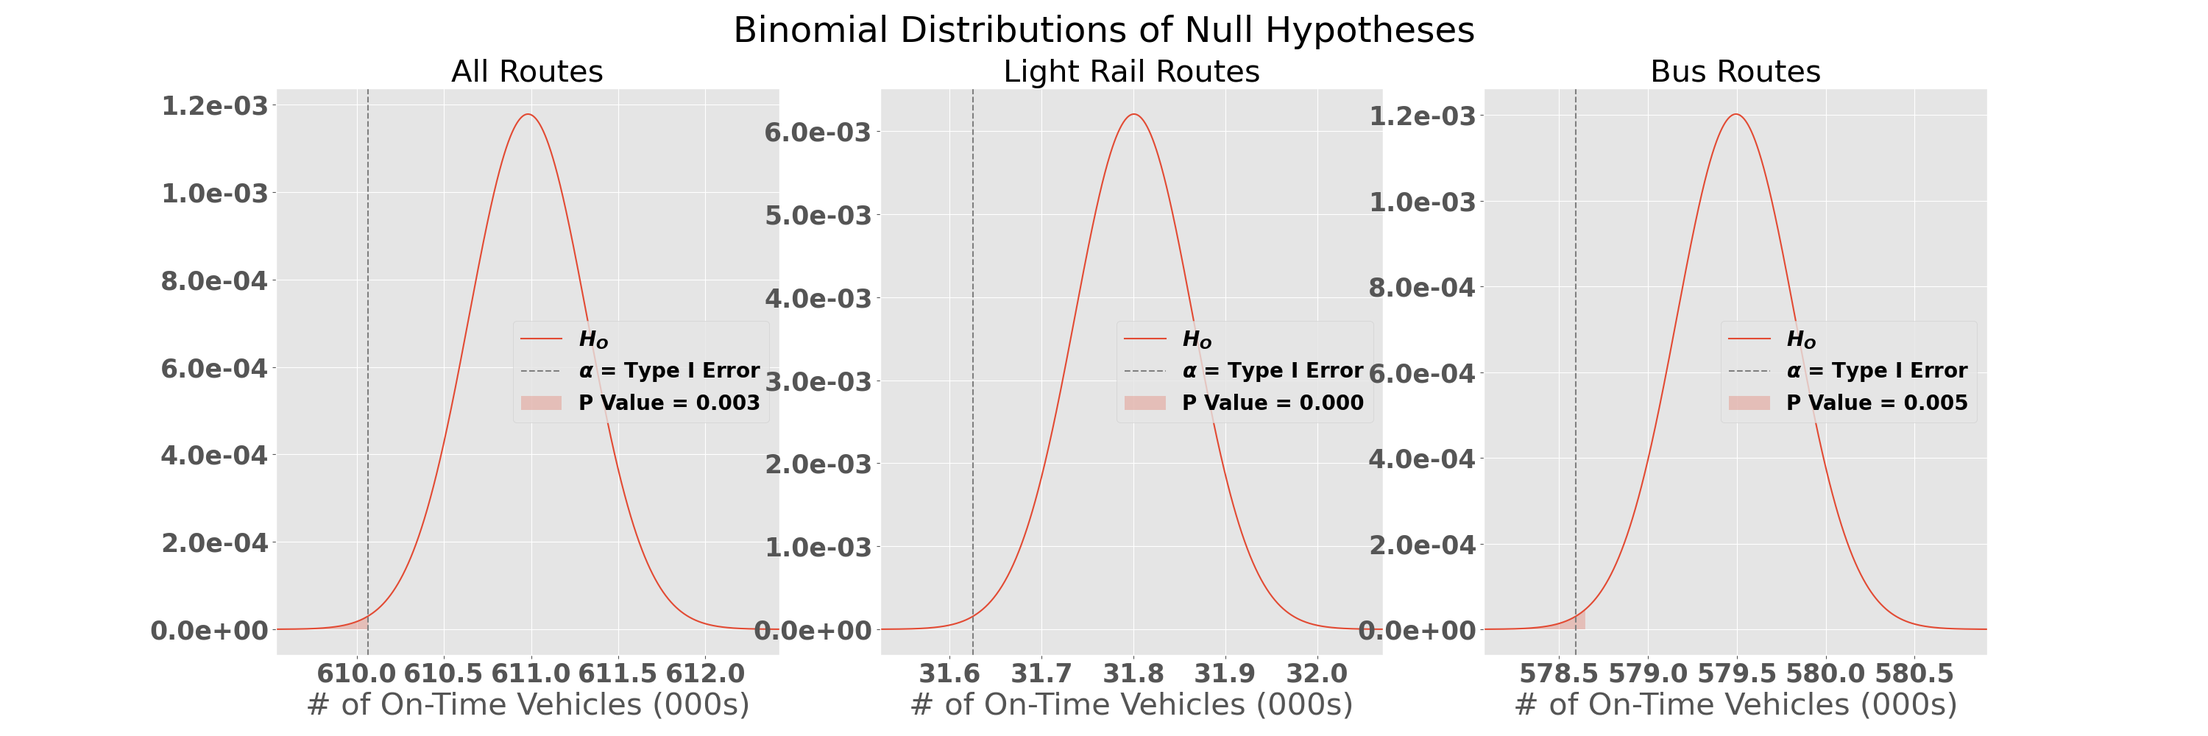
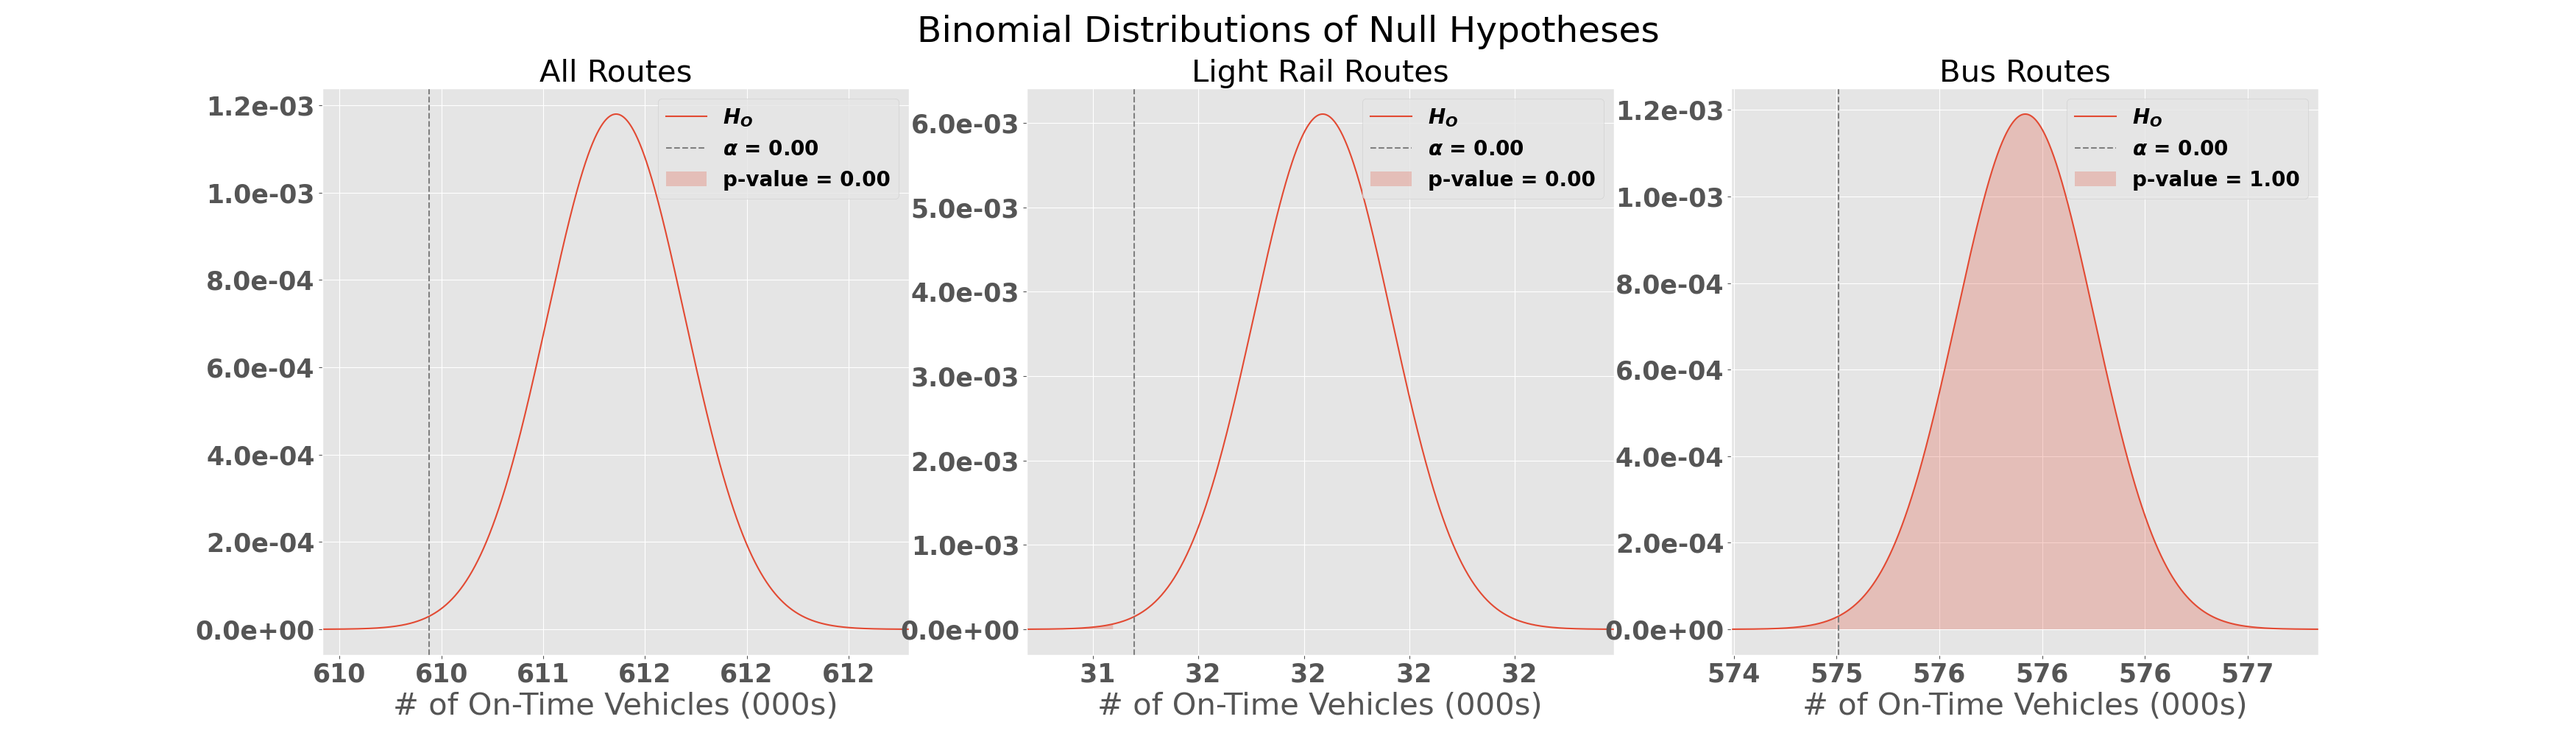
Nightly commit

diff --git a/src/analyze_rtd_data.py b/src/analyze_rtd_data.py
@@ -27,7 +27,7 @@ class RTD_analyze(object):
         elif ~(self.route_type == 'All') & (self.route_label == 'All'):
             self.data = rtd_data.df[rtd_data.df.route_type == self.route_type]
         else:
-            self.data = rtd_data.df[rtd_data.df.route_label == self.route_label]
+            self.data = rtd_data.df[rtd_data.df.route_short_name == self.route_label]
 
     def calculate_ontime_departure(self):
         '''
@@ -56,9 +56,12 @@ class RTD_analyze(object):
     def plot_null_hypothesis(self, ax, alpha_value, null_percent):
         def thousands(x, pos):
             'The two args are the value and tick position'
-            return '%3.1f' % (x/1000)
+            return '%3.0f' % (x/1000)
 
-        graph_fontsize = 30
+        if (self.route_type == 'All') & ~(self.route_label == 'All'): 
+            graph_fontsize = 20
+        else:
+            graph_fontsize = 30
 
         null_dist = stats.binom(n=self.total_stops, p=null_percent)
         x = np.linspace(0, self.total_stops, self.total_stops+1)
@@ -71,22 +74,28 @@ class RTD_analyze(object):
         ax.axvline(null_dist.ppf(alpha_value)
                   ,linestyle='--'
                   ,color='grey'
-                  ,label='$\\alpha$ = Type I Error')
+                  ,label=f"$\\alpha$ = {alpha_value:.2f}")
         ax.fill_between(x
                         ,null_dist.pmf(x)
                         ,where= x <= observed_data
                         ,alpha=0.25
-                        ,label=f"P Value = {null_dist.cdf(observed_data):.3f}")
-        ax.legend(loc='best', fontsize=graph_fontsize-10)
+                        ,label=f"p-value = {null_dist.cdf(observed_data):.2f}")
+        ax.legend(loc='upper right', fontsize=graph_fontsize-10)
         ax.set_xlabel('# of On-Time Vehicles (000s)', fontsize=graph_fontsize)
-        ax.set_title(f"{self.route_type.replace('_', ' ').title()} Routes", fontsize=graph_fontsize)
+        if (self.route_type == 'All') & ~(self.route_label == 'All'): 
+            ax.set_title(f"{self.route_label} Route", fontsize=graph_fontsize)
+        else:
+            ax.set_title(f"{self.route_type.replace('_', ' ').title()} Routes", fontsize=graph_fontsize)
 
     def plot_alt_hypothesis(self, ax, alpha_value, null_percent):
         def thousands(x, pos):
             'The two args are the value and tick position'
-            return '%3.1f' % (x/1000)
-
-        graph_fontsize = 30
+            return '%3.0f' % (x/1000)
+        
+        if (self.route_type == 'All') & ~(self.route_label == 'All'): 
+            graph_fontsize = 25
+        else:
+            graph_fontsize = 30
 
         null_dist = stats.binom(n=self.total_stops, p=null_percent)
         alt_dist = stats.binom(n=self.total_stops, p=self.ontime_departure_rate)
@@ -102,7 +111,7 @@ class RTD_analyze(object):
         ax.fill_between(x, null_dist.pmf(x)
                        ,where= (x <= null_dist.ppf(alpha_value))
                        ,alpha=0.25
-                       ,label='$\\alpha$ = Type I Error')
+                       ,label=f"$\\alpha$ = Type I Error")
         ax.fill_between(x, alt_dist.pmf(x)
                        ,where= (x >= null_dist.ppf(alpha_value))
                        ,alpha=0.25
@@ -112,10 +121,13 @@ class RTD_analyze(object):
                        ,alpha=0.25
                        ,color='Green'
                        ,label='Power')
-        ax.legend(loc='best', fontsize=graph_fontsize-10)
+        ax.legend(loc='upper right', fontsize=graph_fontsize-10)
         ax.set_xlabel(f"# of On-Time Vehicles (000s)", fontsize=graph_fontsize)
-        ax.set_title(f"{self.route_type.replace('_', ' ').title()} Routes", fontsize=graph_fontsize)
-
+        if (self.route_type == 'All') & ~(self.route_label == 'All'): 
+            ax.set_title(f"{self.route_label} Route", fontsize=graph_fontsize)
+        else:
+            ax.set_title(f"{self.route_type.replace('_', ' ').title()} Routes", fontsize=graph_fontsize)
+            
 if __name__ == '__main__':
 
     rtd_data = clean_rtd_data.RTD_df(bucket_name='rtd-on-time-departure', file_name='rtd_data.csv')
@@ -139,13 +151,14 @@ if __name__ == '__main__':
     plt.savefig('images/departure_time_histogram.png')
 
     # Original Null Hypothesis
-    set_figsize = (30,10)
+    set_figsize = (35,10)
     set_fontsize = 35
     plt.rc('xtick',labelsize=25)
     plt.rc('ytick',labelsize=25)
     alpha_value = 0.01/3
     
     fig, axs = plt.subplots(1,3,figsize=set_figsize)
+    fig.tight_layout()
 
     all_routes.plot_null_hypothesis(ax=axs[0], alpha_value=alpha_value, null_percent=0.86)
     light_rail.plot_null_hypothesis(ax=axs[1], alpha_value=alpha_value, null_percent=0.90)
@@ -155,6 +168,7 @@ if __name__ == '__main__':
     
     # Original Alt Hypothesis
     fig, axs = plt.subplots(1,3,figsize=set_figsize)
+    fig.tight_layout()
     
     all_routes.plot_alt_hypothesis(ax=axs[0], alpha_value=alpha_value, null_percent=0.86)
     light_rail.plot_alt_hypothesis(ax=axs[1], alpha_value=alpha_value, null_percent=0.90)
@@ -163,11 +177,12 @@ if __name__ == '__main__':
     plt.savefig(f"images/original_alt_hypothesis.png")
 
     # Modified Null Hypothesis
-    all_routes_null_p = 0.8125
-    light_rail_null_p = 0.87
-    bus_null_p = 0.81
+    all_routes_null_p = 0.813
+    light_rail_null_p = 0.865
+    bus_null_p = 0.805
 
     fig, axs = plt.subplots(1,3,figsize=set_figsize)
+    fig.tight_layout()
     
     all_routes.plot_null_hypothesis(ax=axs[0], alpha_value=alpha_value, null_percent=all_routes_null_p)
     light_rail.plot_null_hypothesis(ax=axs[1], alpha_value=alpha_value, null_percent=light_rail_null_p)
@@ -177,9 +192,43 @@ if __name__ == '__main__':
 
     # Modified Alt Hypothesis
     fig, axs = plt.subplots(1,3,figsize=set_figsize)
+    fig.tight_layout()
     
     all_routes.plot_alt_hypothesis(ax=axs[0], alpha_value=alpha_value, null_percent=all_routes_null_p)
     light_rail.plot_alt_hypothesis(ax=axs[1], alpha_value=alpha_value, null_percent=light_rail_null_p)
     bus.plot_alt_hypothesis(ax=axs[2], alpha_value=alpha_value, null_percent=bus_null_p)
     fig.suptitle(f"Binomial Distributions of Null and Alternate Hypotheses", fontsize=set_fontsize)
     plt.savefig(f"images/modified_alt_hypothesis.png")
+
+    # Top 10 Routes
+    top_10_routes = list(all_routes.data.groupby('route_short_name').size().sort_values(ascending=False)[0:10].index)
+    alpha_value = 0.01/10
+    set_figsize = (15,75)
+    set_fontsize = 25
+    plt.rc('xtick',labelsize=15)
+    plt.rc('ytick',labelsize=15)
+   
+    fig, axs = plt.subplots(10,1, figsize=set_figsize)
+    fig.tight_layout()
+
+    for idx, route in enumerate(top_10_routes):
+        route_data = RTD_analyze(rtd_data, route_label=route)
+        route_data.calculate_ontime_departure()
+        route_data.plot_null_hypothesis(ax=axs[idx], alpha_value=alpha_value, null_percent=0.86)
+    
+    fig.suptitle(f'Binomial Distributions of Null Hypotheses', fontsize=set_fontsize)
+    plt.savefig(f"images/top_10_routes_null_hypothesis.png")
+
+    fig, axs = plt.subplots(10,1, figsize=set_figsize)
+    fig.tight_layout()
+
+    for idx, route in enumerate(top_10_routes):
+        route_data = RTD_analyze(rtd_data, route_label=route)
+        route_data.calculate_ontime_departure()
+        route_data.plot_alt_hypothesis(ax=axs[idx], alpha_value=alpha_value, null_percent=0.86)
+    
+    fig.suptitle(f'Binomial Distributions of Null and Alternate Hypotheses', fontsize=set_fontsize)
+    plt.savefig(f"images/top_10_routes_alt_hypothesis.png")
+
+
+

diff --git a/README.md b/README.md
@@ -136,7 +136,7 @@ Once I had my data down to just rows where a vehicle was at or immediately arriv
 During the process of cleaning the data, I noticed that several days were missing entirely (from 2021-02-19 19:45 to 2021-02-22 07:55). This appears to have been caused by renaming my repository from **Capstone_1** to **rtd_on_time_departure**. The name change had several downstream impacts, most significantly on the crontab job I had running where the directory name was no longer found. While this is unfortunate, it will not severely impact my overall analysis.
 
 ## EDA
-
+---
 Now that I have my data in a workable state, I wanted to visualize the entire dataset to see the range of values I would be working with. 
 
 ### Vehicle Lat / Lngs
@@ -162,21 +162,26 @@ Next, I wanted to see what sort of range in departure_times I would be dealing w
 It looks like 99.5% of my data falls within (-20, 20) minutes so I zoomed in there to get a better idea of the distribution. There is definitely a normal distribution here with a slight left skew as vehicles are more often slightly late than slightly early. Overall though, this gives me a good idea of where my departure times will fall for the dataset.
 
 ### Null Hypotheses
-If we use the 2019Q3 goals (86% System, 90% Light Rail, 86% Bus) for our Null Hypothesis, we can see that COVID-19 and the RTD driver shortage of 2020 had significant impacts to the on-time departure rate. Since I am running 3 experiments:
+If we use the 2019Q3 goals (86% System, 90% Light Rail, 86% Bus) for our Null Hypothesis, we can see that COVID-19 and the RTD operator shortage of 2020 had significant impacts to the on-time departure rate. Since I am running 3 experiments:
 $$\large H_{0_{system}}: \text{On Time Service >= 86\%}\ \| \ \large H_{A_{system}}: \text{On Time Service < 86\%}$$ 
-$$\large H_{0_{\text{light rail}}}: \text{On Time Service >= 90\%}\ \ \| \ \large H_{A_{\text{light rail}}}: \text{On Time Service < 90\%}$$ 
+$$\large H_{0_{\text{light rail}}}: \text{On Time Service >= 90\%}\ \| \ \large H_{A_{\text{light rail}}}: \text{On Time Service < 90\%}$$ 
 $$\large H_{0_{\text{bus}}}: \text{On Time Service >= 86\%}\ \ \| \ \large H_{A_{\text{bus}}}: \text{On Time Service < 86\%}$$ 
-I need to correct for using my original stated $\large \alpha = 0.01$. Using the **Bonferroni correction**, I would instead use $\large \frac{0.01}{3}$ or $\large \alpha=0.003$. The p-value for each of our route types is below our $\large \alpha$, which means we can **reject the Null Hypothesis that RTD's on-time departure rate during the measured time period was 86% or greater**.
+I will need to correct for using my original stated $\large \alpha = 0.01$ by using the **Bonferroni correction**. I would instead use $\large \frac{0.01}{3}$ or $\large \alpha=0.003$. The p-value for each of our route types is below our $\large \alpha$, which means we can **reject the Null Hypothesis that RTD's on-time departure rate during the measured time period was 86% or greater**.
 
 ![Null Hypothesis](images/original_null_hypothesis.png)
 
 ### Alternate Hypothesis
-For each of our experiments, you can see that the alternate hypothesis distribution is well below the critical value ($\large \alpha \large$=0.01) which results in a very little chance of Type I or Type II Errors. 
+For each of our experiments, you can also see that the alternate hypothesis distribution is well below the critical value ($\large \alpha \large$=0.003) which results in a very little chance of Type I or Type II Errors. These graphs show us that there is indeed a difference between the stated on-time service goal of 86% (90% for Light Rail) and the observed on-time service from February 16th, 2020 - February 22nd, 2020. This of course makes sense because of what happened in 2020 with COVID-19 and the operator shortage.
 
 ![Alternate Hypothesis](images/original_alt_hypothesis.png)
 
 
 ### Modified Null Hypotheses
+Since there is such a drastic difference between the 2019Q3 goal and current state, it might be better to estimate what would be a good goal for RTD to set for their routes? We can use the same statistically analysis to see what on-time service % would still be above the current state but within reach with improvement. I set the Null Hypothesis for each experiment to be:
+
+$$\large H_{0_{system}}: \text{On Time Service >= 81.35\%}$$ 
+$$\large H_{0_{\text{light rail}}}: \text{On Time Service >= 86\%}$$ 
+$$\large H_{0_{\text{bus}}}: \text{On Time Service >= 81\%}$$ 
 
 ![Modified Null Hypothesis](images/modified_null_hypothesis.png)
 
@@ -184,13 +189,19 @@ For each of our experiments, you can see that the alternate hypothesis distribut
 
 ![Modified Alternate Hypothesis](images/modified_alt_hypothesis.png)
 
+### Top 10 Routes
+I also 
+
+![Top 10 Routes Null Hypothesis](images/top_10_routes_null_hypothesis.png)
+
+![Top 10 Routes Alternate Hypothesis](images/top_10_routes_alt_hypothesis.png)
 
 ## Conclusions
-
+---
 ### Lessons Learned
 * Make your cron jobs foolproof
 * If you know your dataset is going to be large, store it in an AWS S3 bucket from the beginning
 
 
 ## Future Work
-
+---
